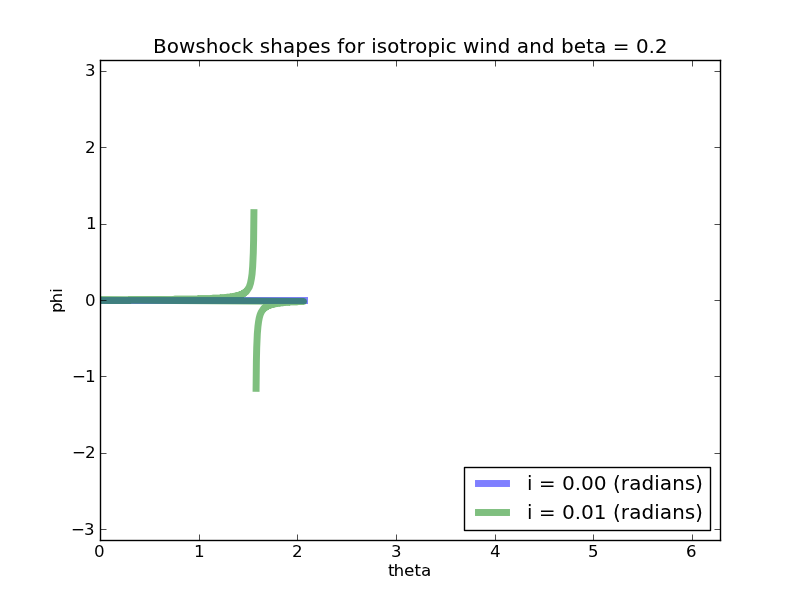
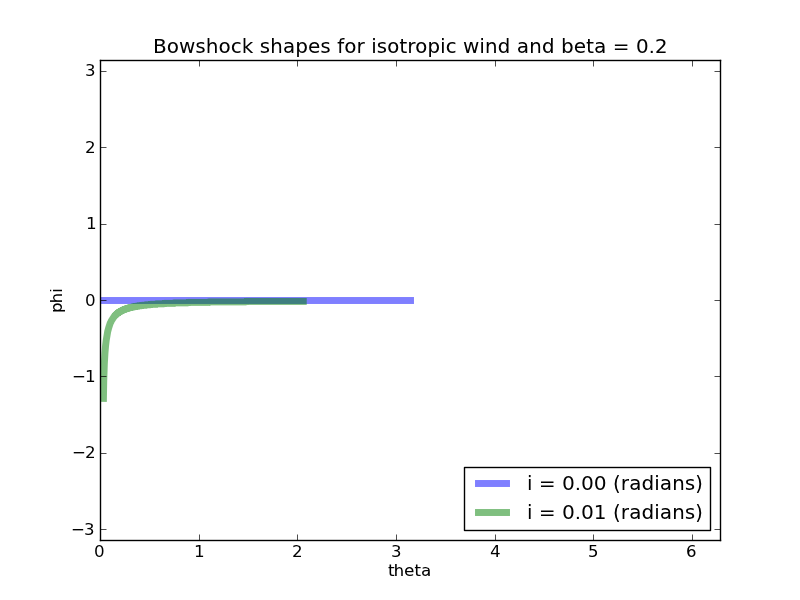
Some progress on debugging Jorge's program
* prop-plane-sky.py: a better omega function!

Changed region(s): [[0.125, 0.33, 0.3438, 0.66], [0.375, 0.48, 0.5312, 0.51]]

diff --git a/prop-plane-sky.py b/prop-plane-sky.py
@@ -7,9 +7,22 @@ In this script, we'll create the proyection of proplyd in the sky plane, assumin
 """
 
 def OMEGA(r,rpdr,h):
-    dR = (rpdr - r)/h
+    """
+    Approximation to omega = (1/R) d R / d theta
+    """
+    dRdth = (rpdr - r)/h
     w = dR/r
     return w
+
+
+def omega(r,theta):
+    """
+    Will's version of omega = (1/R) d R / d theta
+    """
+    om = np.zeros_like(r)
+    om[:-1] = np.diff(np.log(r))/np.diff(theta)
+    return om
+    
 
 #First, design a set of beta values to calculate R(theta) (Well, first than that, desgign a theta array)
 
@@ -33,7 +46,15 @@ for inn in innertype:
         R=shell.radius(theta)
         Rdr = shell.radius(theta + h)
         R[R<=0] = np.nan # Set neagtive R to NaN
-        W = OMEGA(R,Rdr,h)
+        # W = OMEGA(R,Rdr,h)
+        W = omega(R, theta)
+
+        # Check that R(theta) is working correctly
+        plt.plot(theta, R)
+        plt.yscale('log')
+        plt.savefig("R-vs-theta-{}-{}.png".format(inn, b))
+        plt.clf()
+
         # Check that omega is working correctly
         plt.plot(theta, W)
         plt.savefig("omega-vs-theta-{}-{}.png".format(inn, b))
